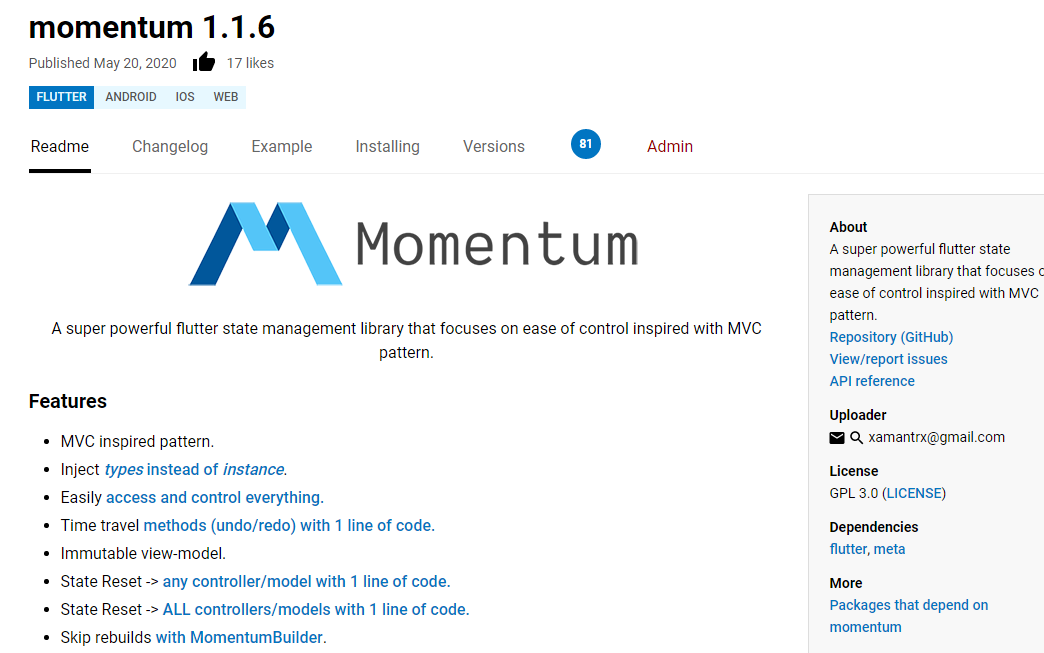
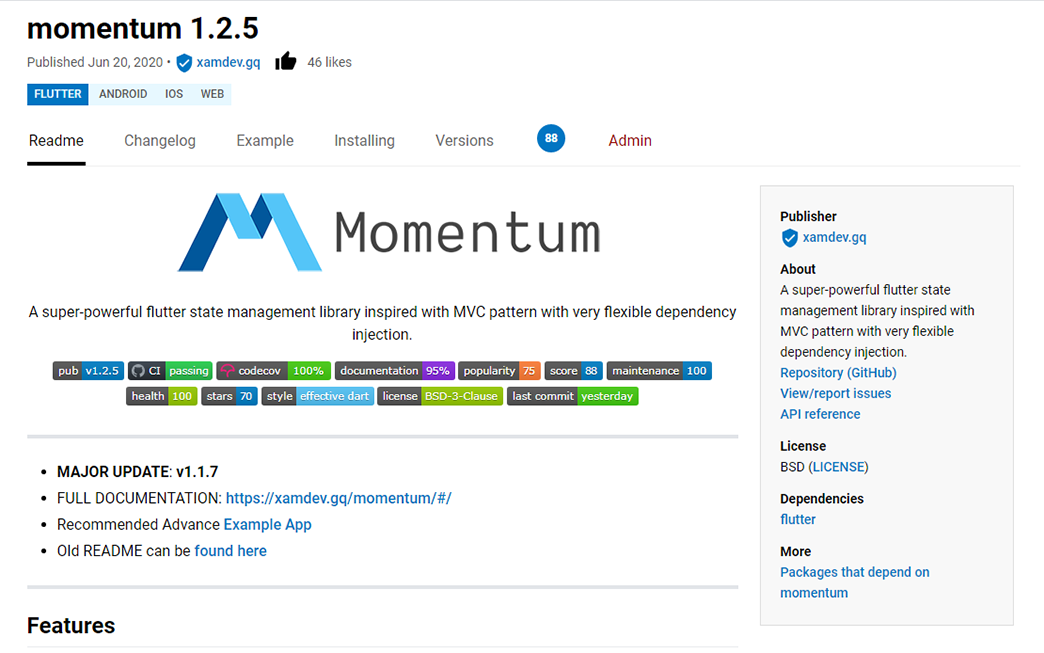
updated images and momentum tagline

Changed region(s): [[0.0307, 0.2757, 1.0, 1.0], [0.0307, 0.0, 0.3372, 0.2757], [0.1226, 0.1838, 0.6743, 0.245]]

diff --git a/content/featured/Momentum/index.md b/content/featured/Momentum/index.md
@@ -11,4 +11,4 @@ tech:
 showInProjects: true
 ---
 
-A super powerful flutter state management library that focuses on ease of control inspired with MVC pattern. It has so many features that doesn't come with other state management libraries. All of them out of the box.
+A super-powerful flutter state management library inspired with MVC pattern with very flexible dependency injection. It has so many features that doesn't come with other state management libraries. All of them out of the box.
